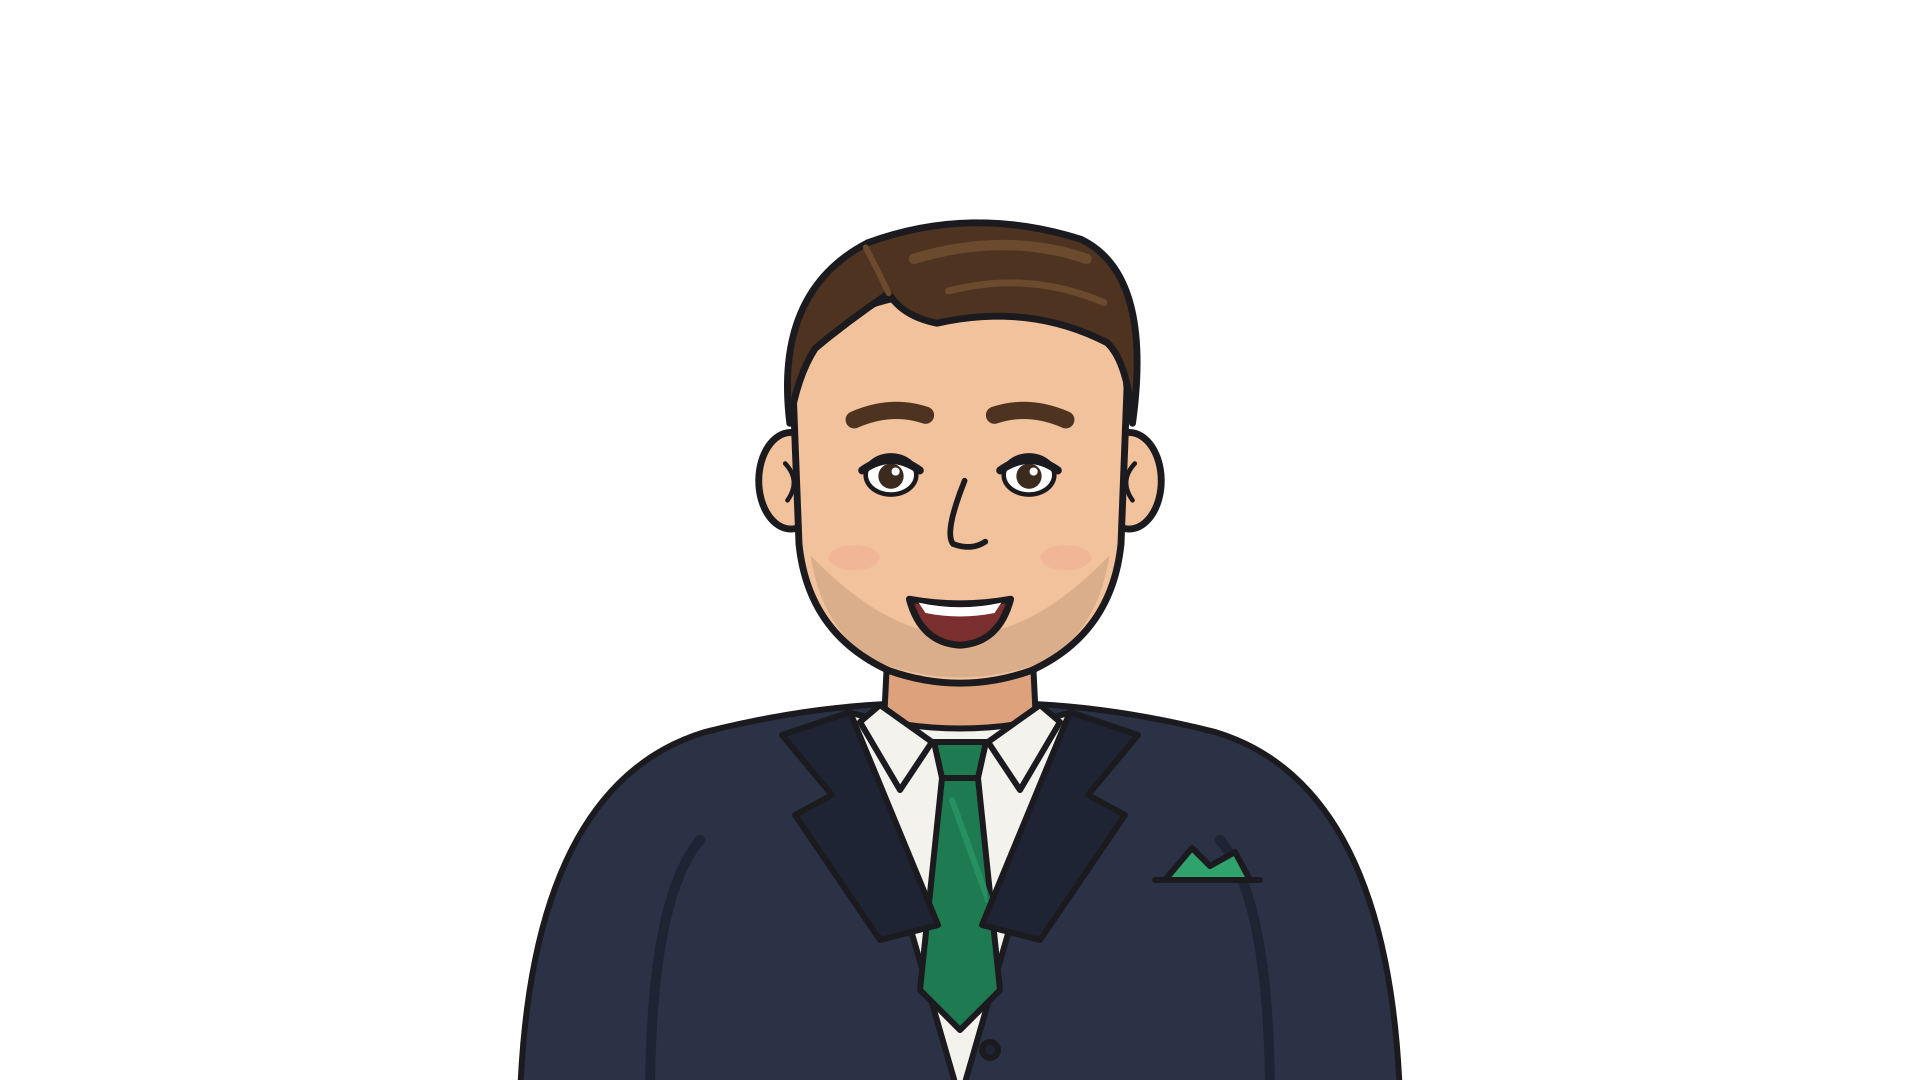
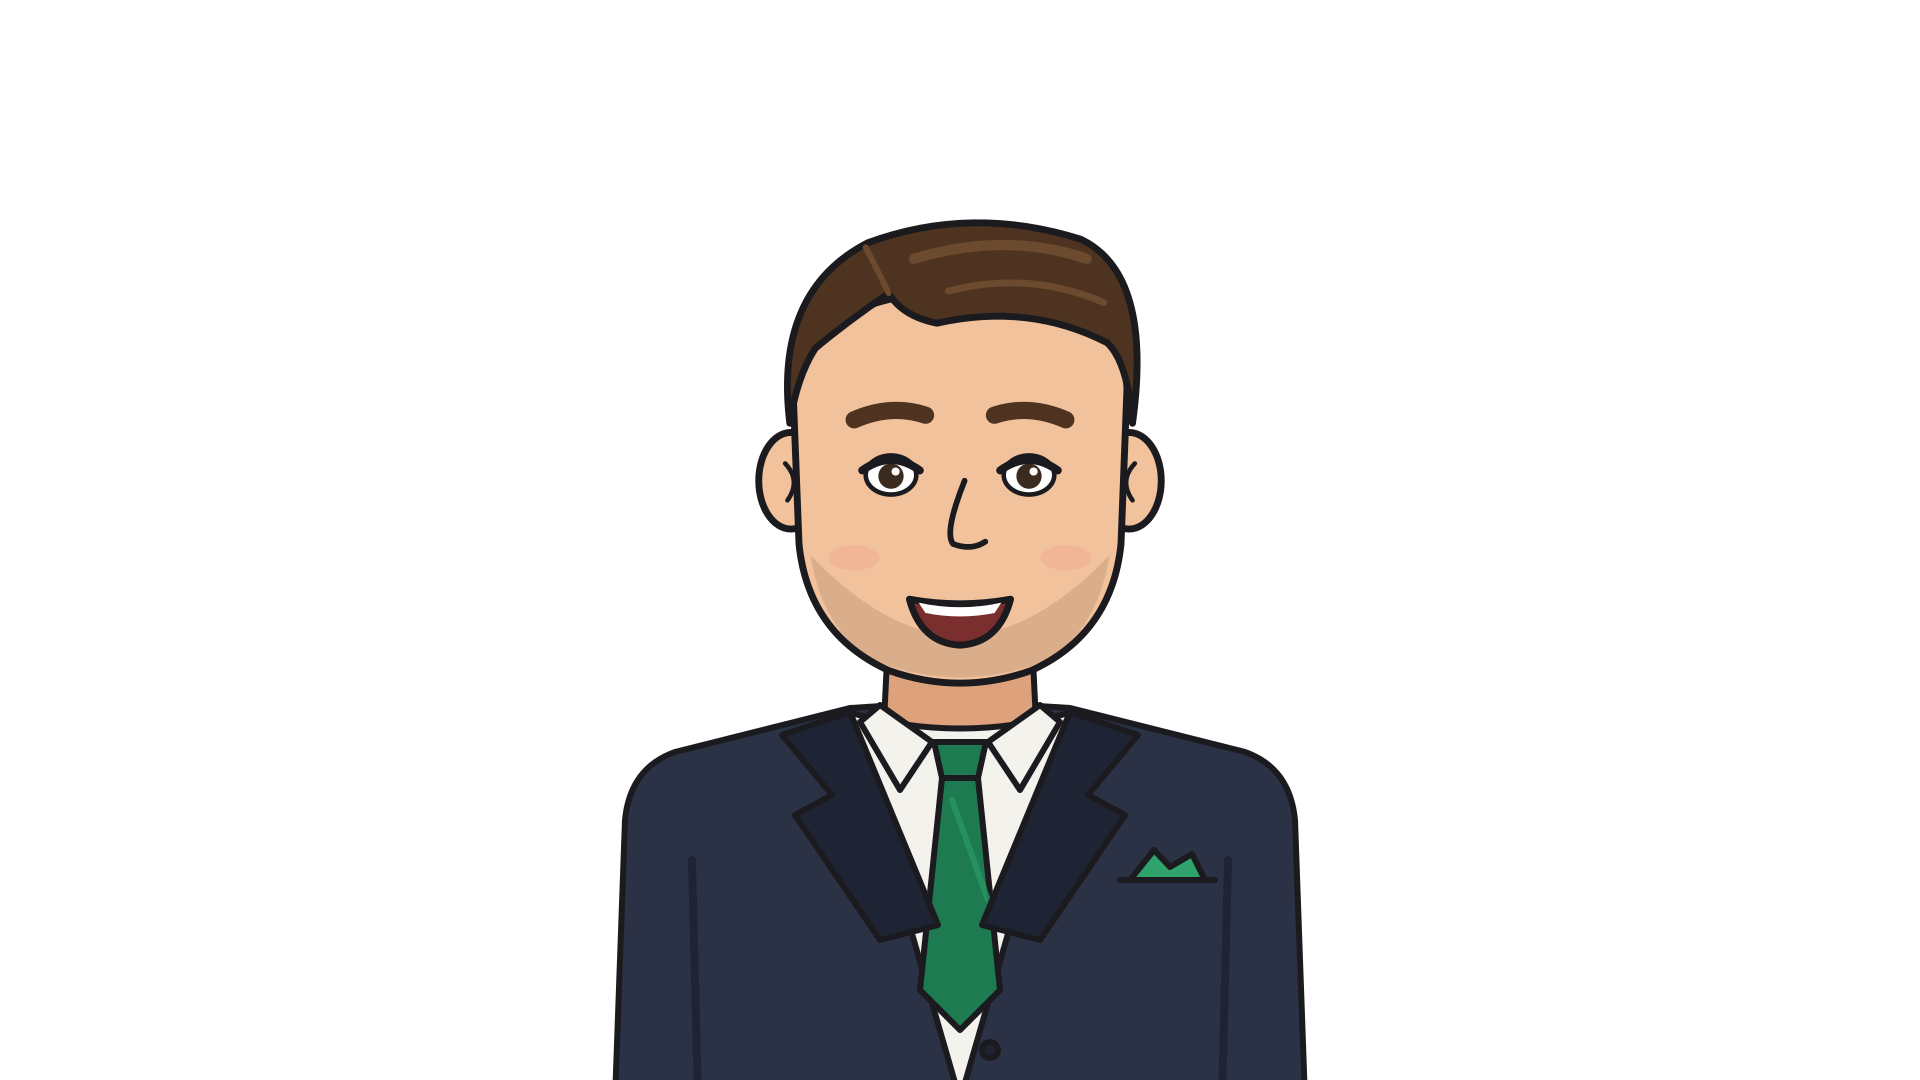
Slim, tailored suit shoulders for Ryan
Claude-Session: https://claude.ai/code/session_01PTRukZknah6EJcwWKeJnuz

diff --git a/branding/ryan/make_ryan.py b/branding/ryan/make_ryan.py
@@ -68,11 +68,12 @@ def body():
         return " ".join(f"{CX + sx*x} {y}" for x, y in pts)
     return f"""
   <g stroke="{INK}" stroke-width="{SW}" stroke-linejoin="round" stroke-linecap="round">
-    <!-- suit jacket -->
-    <path d="M{CX-440} {H+20} Q{CX-430} 785 {CX-255} 732 Q{CX-120} 698 {CX} 704
-             Q{CX+120} 698 {CX+255} 732 Q{CX+430} 785 {CX+440} {H+20} Z" fill="{SUIT}"/>
-    <path d="M{CX-310} {H+20} Q{CX-310} 900 {CX-260} 840" fill="none" stroke="{SUIT_SH}" stroke-width="10"/>
-    <path d="M{CX+310} {H+20} Q{CX+310} 900 {CX+260} 840" fill="none" stroke="{SUIT_SH}" stroke-width="10"/>
+    <!-- suit jacket: tailored, square shoulders -->
+    <path d="M{CX-345} {H+20} L{CX-335} 820 Q{CX-330} 768 {CX-285} 752
+             L{CX-110} 708 Q{CX} 700 {CX+110} 708 L{CX+285} 752
+             Q{CX+330} 768 {CX+335} 820 L{CX+345} {H+20} Z" fill="{SUIT}"/>
+    <path d="M{CX-262} {H+20} L{CX-268} 860" fill="none" stroke="{SUIT_SH}" stroke-width="8"/>
+    <path d="M{CX+262} {H+20} L{CX+268} 860" fill="none" stroke="{SUIT_SH}" stroke-width="8"/>
     <!-- neck -->
     <path d="M{CX-72} 640 L{CX-76} 722 Q{CX} 760 {CX+76} 722 L{CX+72} 640 Z" fill="{SKIN_SH}"/>
     <!-- shirt -->
@@ -88,8 +89,8 @@ def body():
     <polygon points="{lapel(-1)}" fill="{SUIT_SH}"/>
     <polygon points="{lapel(1)}" fill="{SUIT_SH}"/>
     <!-- pocket square -->
-    <path d="M{CX+205} 880 L{CX+290} 880 L{CX+275} 852 L{CX+250} 866 L{CX+232} 848 Z" fill="{GREEN}"/>
-    <path d="M{CX+195} 880 L{CX+300} 880" fill="none"/>
+    <path d="M{CX+170} 880 L{CX+245} 880 L{CX+232} 854 L{CX+210} 867 L{CX+194} 850 Z" fill="{GREEN}"/>
+    <path d="M{CX+160} 880 L{CX+255} 880" fill="none"/>
     <!-- buttons -->
     <circle cx="{CX+30}" cy="1050" r="8" fill="{SUIT_SH}"/>
   </g>"""
